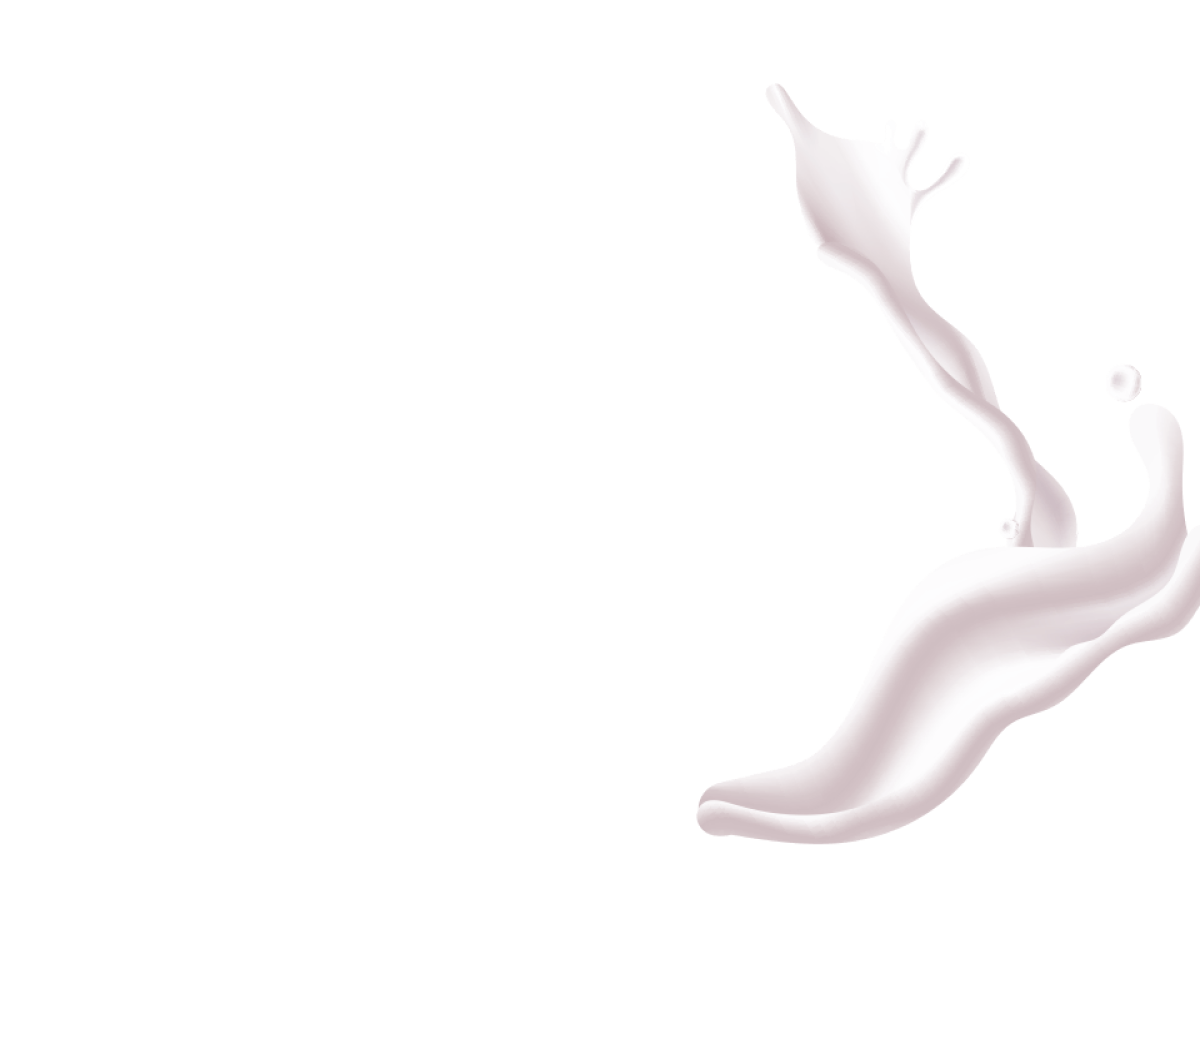
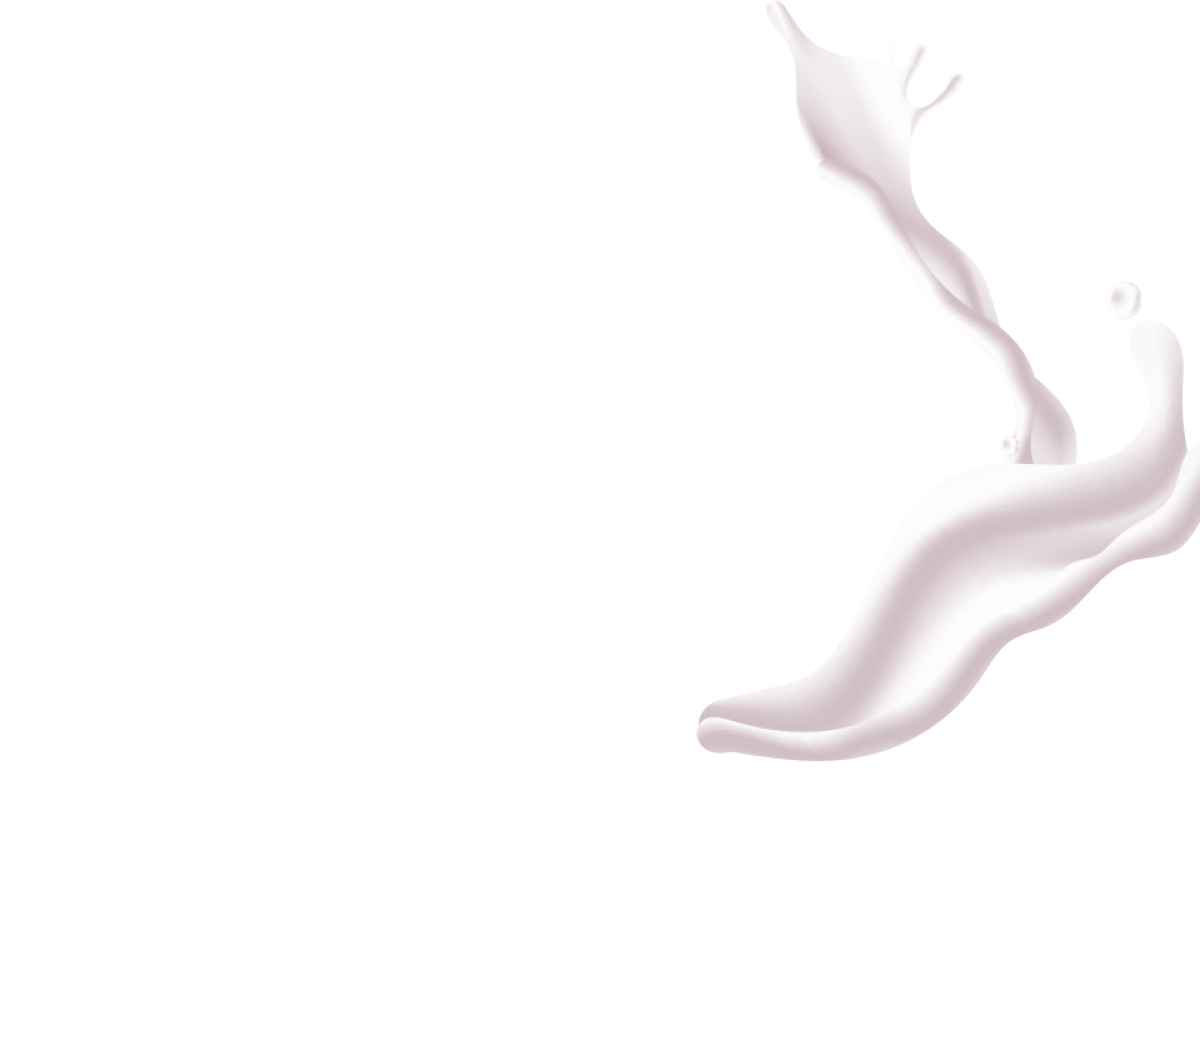
Переносить фоно зображення з контенера на секцію

Changed region(s): [[0.5858, 0.0, 1.0, 0.8292], [0.925, 0.2764, 0.9558, 0.3071], [0.7708, 0.0614, 0.8017, 0.0921]]

diff --git a/src/sass/components/_about.scss b/src/sass/components/_about.scss
@@ -4,6 +4,28 @@
   padding-top: 54px;
   padding-bottom: 40px;
 
+  @media screen and (max-width: 320px) {
+    padding-left: 20px;
+    padding-right: 20px;
+  }
+
+  @media screen and (max-width: 767.98px) {
+    background-image: url('../images/about/wave-milk_sm_l.png'),
+      url('../images/about/wave-milk_sm_r.png');
+    background-repeat: no-repeat;
+    background-position-y: 500px;
+    background-position-x: left, right;
+    background-origin: content-box;
+    background-size: contain;
+
+    @media (min-device-pixel-ratio: 2),
+      (min-resolution: 192dpi),
+      (min-resolution: 2dppx) {
+      background-image: url('../images/about/wave-milk_sm@2x_l.png'),
+        url('../images/about/wave-milk_sm@2x_r.png');
+    }
+  }
+
   @media screen and (min-width: 768px) {
     padding: 60px 0px;
   }
@@ -12,9 +34,9 @@
     background-image: url('../images/about/wave-milk_lg_l.png'),
       url('../images/about/wave-milk_lg_r.png');
     background-repeat: no-repeat;
-    background-position-y: 236px;
+    background-position-y: 170px;
     background-position-x: left, right;
-    background-size: 50%;
+    background-size: contain;
 
     @media (min-device-pixel-ratio: 2),
       (min-resolution: 192dpi),
@@ -26,21 +48,9 @@
 }
 
 .about__container {
-  @media screen and (max-width: 767.98px) {
-    background-image: url('../images/about/wave-milk_sm_l.png'),
-      url('../images/about/wave-milk_sm_r.png');
-    background-repeat: no-repeat;
-    background-position-y: 534px;
-    background-position-x: left, right;
-    background-origin: content-box;
-    background-size: 50%;
-
-    @media (min-device-pixel-ratio: 2),
-      (min-resolution: 192dpi),
-      (min-resolution: 2dppx) {
-      background-image: url('../images/about/wave-milk_sm@2x_l.png'),
-        url('../images/about/wave-milk_sm@2x_r.png');
-    }
+  @media screen and (max-width: 320px) {
+    padding-left: 0;
+    padding-right: 0;
   }
 
   @media screen and (min-width: 768px) {
